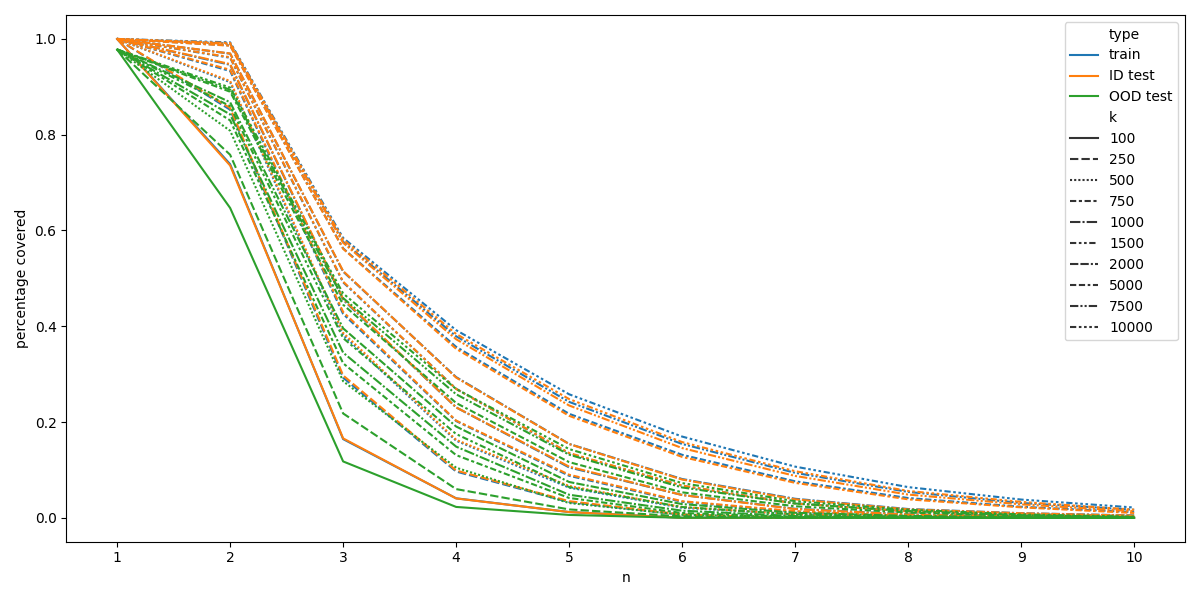
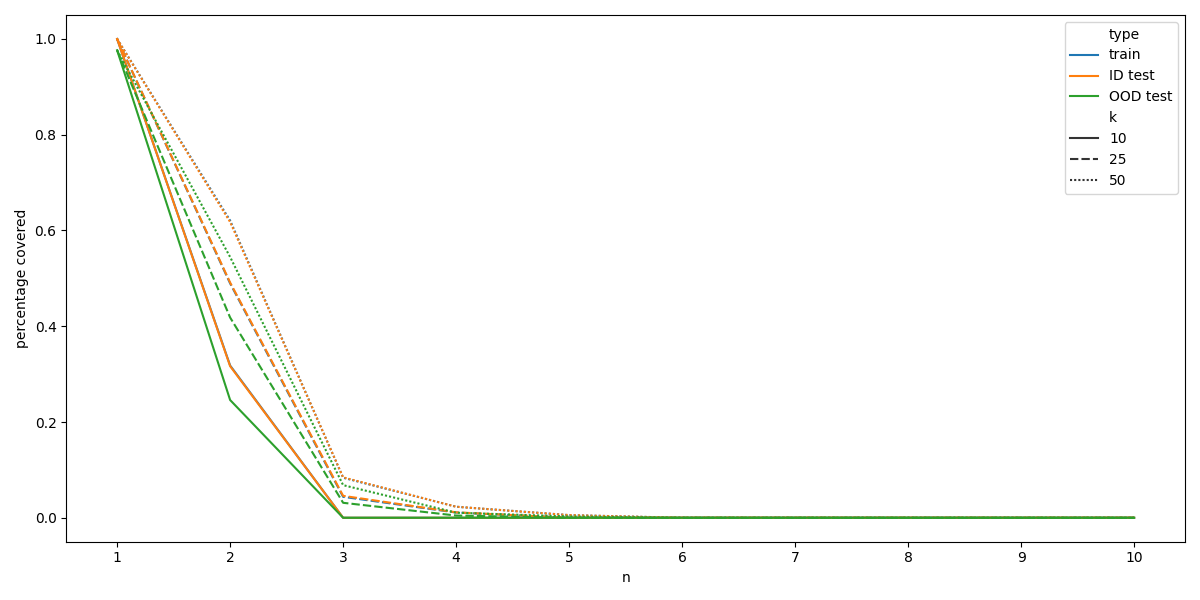
merge: gpt_from_scratch.py

Changed region(s): [[0.0925, 0.06, 0.9558, 0.87], [0.8942, 0.3, 0.9867, 0.57]]

diff --git a/GPT_from_scratch.py b/GPT_from_scratch.py
@@ -4,10 +4,12 @@ import torch
 import torch.nn as nn
 from torch.nn import functional as F
 from torch.utils.tensorboard import SummaryWriter
+import time
 
 # from save_utils import save_checkpoint
 from GPT_encode import GPTEncoder
-#from GPT_generate import VOCAB_PATH
+
+# from GPT_generate import VOCAB_PATH
 
 # ----------------------------
 # Set K, encode, export .bin/.txt
@@ -45,9 +47,9 @@ SAVE_INTERVAL = 4000
 # ----------------------------
 # Hyperparameters - Medium model
 # ----------------------------
-batch_size = 512  # sequences per batch
-block_size = 128  # context length
-max_iters = 20000
+batch_size = 256  # sequences per batch
+block_size = 256  # context length
+max_iters = 40000
 eval_interval = 2000
 learning_rate = 1e-4
 eval_iters = 250
@@ -55,8 +57,9 @@ n_embd = 256
 n_head = 4
 n_layer = 6
 dropout = 0.1
-scheduling = True  # if True, use teacher forcing with scheduled sampling
+scheduling = False  # if True, use teacher forcing with scheduled sampling
 teacher_forcing_lamda = 0.5 * max_iters  # decay rate
+patience = 2
 
 # # ----------------------------
 # # Hyperparameters - Large model
@@ -76,6 +79,7 @@ teacher_forcing_lamda = 0.5 * max_iters  # decay rate
 # Device
 # ----------------------------
 device = "cuda" if torch.cuda.is_available() else "cpu"
+
 
 # ----------------------------
 # Data loading helpers
@@ -109,7 +113,7 @@ def build_model_path(
     block_size: int,
     step: int,
     k: int | None = None,
-    lamda: float | None = None
+    lamda: float | None = None,
 ):
     """
     Returns checkpoints/<folder>/model_h{n_head}_l{n_layer}_b{block_size}[_it{step}].pt
@@ -193,8 +197,9 @@ def estimate_loss(model, train_data: torch.Tensor, val_data: torch.Tensor, devic
 # Teacher forcing / scheduled sampling helpers
 # ----------------------------
 def teacher_forcing_prob_exponential(iter: int, lamda: float):
-    """ Exponential decay of teacher forcing probability """
+    """Exponential decay of teacher forcing probability"""
     return float(torch.exp(torch.tensor(-iter / lamda)))
+
 
 # ----------------------------
 # Model (GPT-style decoder-only Transformer)
@@ -371,7 +376,23 @@ def main():
     )
 
     # tensorboard
-    writer = SummaryWriter(log_dir="gpt_runs")
+    run_id = build_model_path(
+        out_root,
+        n_head,
+        n_layer,
+        block_size,
+        step=iter,
+        k=K,
+        lamda=teacher_forcing_lamda,
+    )
+    run_id = run_id.stem[6:]  # chop off the "model_"
+    writer = SummaryWriter(log_dir=f"gpt_runs/run_{run_id}")
+
+    # Early stopping variables
+    steps_without_validation_improvement = 0
+    best_valid_loss = float("inf")
+    best_model_state = None
+    best_iter = 0
 
     # Train
     for iter in range(max_iters):
@@ -379,18 +400,46 @@ def main():
         if iter % eval_interval == 0 or iter == max_iters - 1:
             losses = estimate_loss(model, train_data, val_data, device)
             print(f"step {iter}: train {losses['train']:.4f}, val {losses['val']:.4f}")
-            writer.add_scalar("Loss/train", losses['train'], iter)
-            writer.add_scalar("Loss/val", losses['val'], iter)
-            writer.add_scalar("Teacher Forcing Prob.", teacher_forcing_prob_exponential(iter, teacher_forcing_lamda), iter)
+            writer.add_scalar("Loss/train", losses["train"], iter)
+            writer.add_scalar("Loss/val", losses["val"], iter)
+            writer.add_scalar(
+                "Teacher Forcing Prob.",
+                teacher_forcing_prob_exponential(iter, teacher_forcing_lamda),
+                iter,
+            )
 
+            # Early stopping / patience check 
+            if losses["val"] < best_valid_loss:
+                best_valid_loss = losses["val"]
+                steps_without_validation_improvement = 0
+                best_model_state = model.state_dict()
+                best_iter = iter
+            else:
+                steps_without_validation_improvement += 1
+
+            if steps_without_validation_improvement >= patience:
+                print(
+                    f"Early stopping triggered at step {iter}, reverting to best model from step {best_iter}."
+                )
+                model.load_state_dict(best_model_state)
+                break
+
+        # Save model checkpoints regularly
         if iter % SAVE_INTERVAL == 0 or iter == max_iters - 1:
             out_root = Path("checkpoints")
             save_path = build_model_path(
-                out_root, n_head, n_layer, block_size, step=iter, k=K, lamda=teacher_forcing_lamda
+                out_root,
+                n_head,
+                n_layer,
+                block_size,
+                step=iter,
+                k=K,
+                lamda=teacher_forcing_lamda,
             )
             torch.save(model, save_path)  # <-- save the entire model object
             print(f"[saved] {save_path}")
 
+        # Update teacher annealing
         if scheduling:
             prob = teacher_forcing_prob_exponential(iter, teacher_forcing_lamda)
                   
@@ -404,10 +453,9 @@ def main():
             loss.backward()
             optimizer.step()
 
-        if iter == max_iters - 1:
-            writer.close()
+    writer.close()
 
-    # Generate (simple demo)
+    # Generate simple demo at end of training
     start_ctx = torch.zeros(
         (1, 1), dtype=torch.long, device=device
     )  # assumes 0 is a valid token

diff --git a/temp/plot_terminal_output.py b/temp/plot_terminal_output.py
@@ -5,7 +5,7 @@ from pathlib import Path
 steps = []
 train_loss = []
 val_loss = []
-filepath = Path("temp/medium_gpt_train.txt")
+filepath = Path("temp/k100_gelu_gpt_train.txt")
 
 with open(filepath, "r", encoding="utf-8") as f:
     for line in f:
